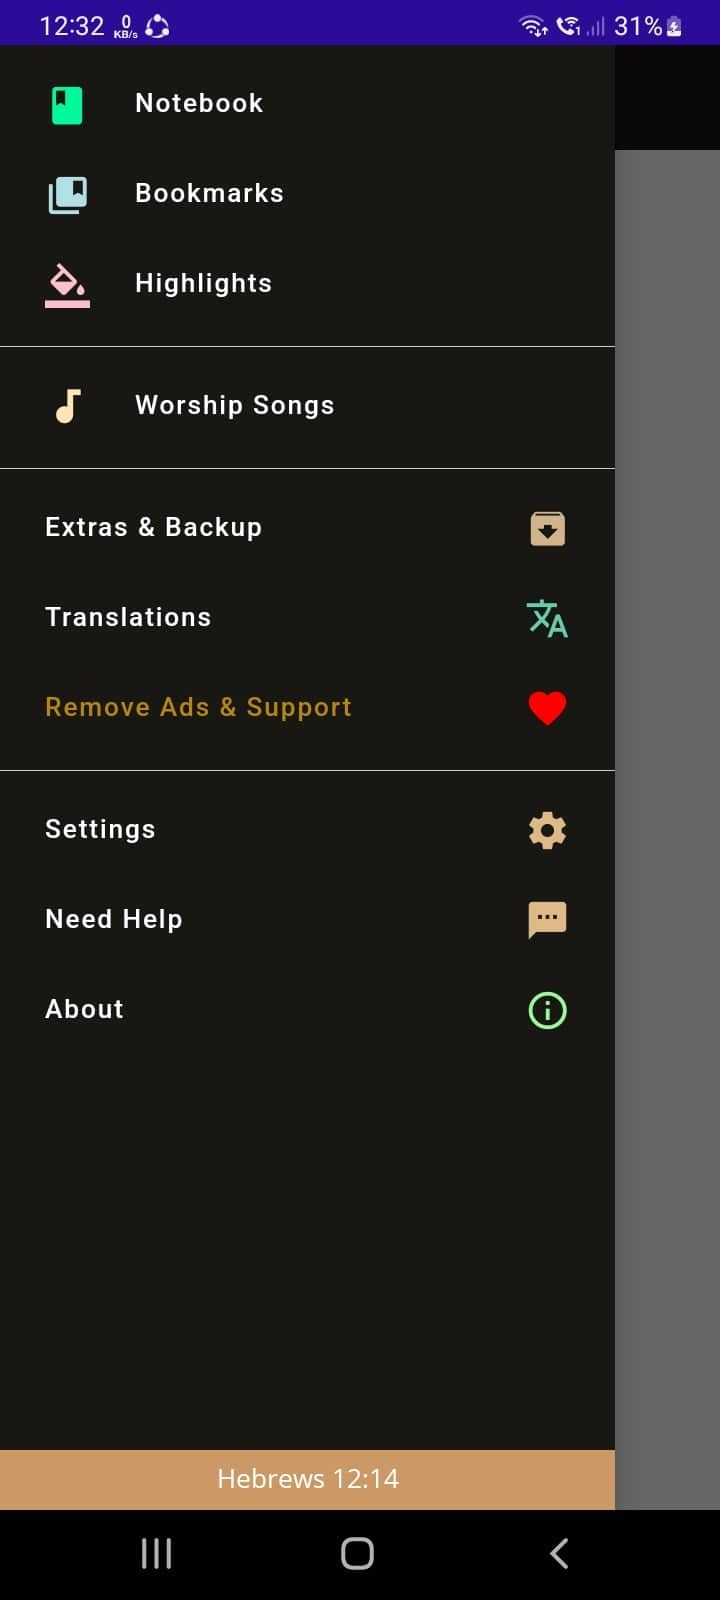
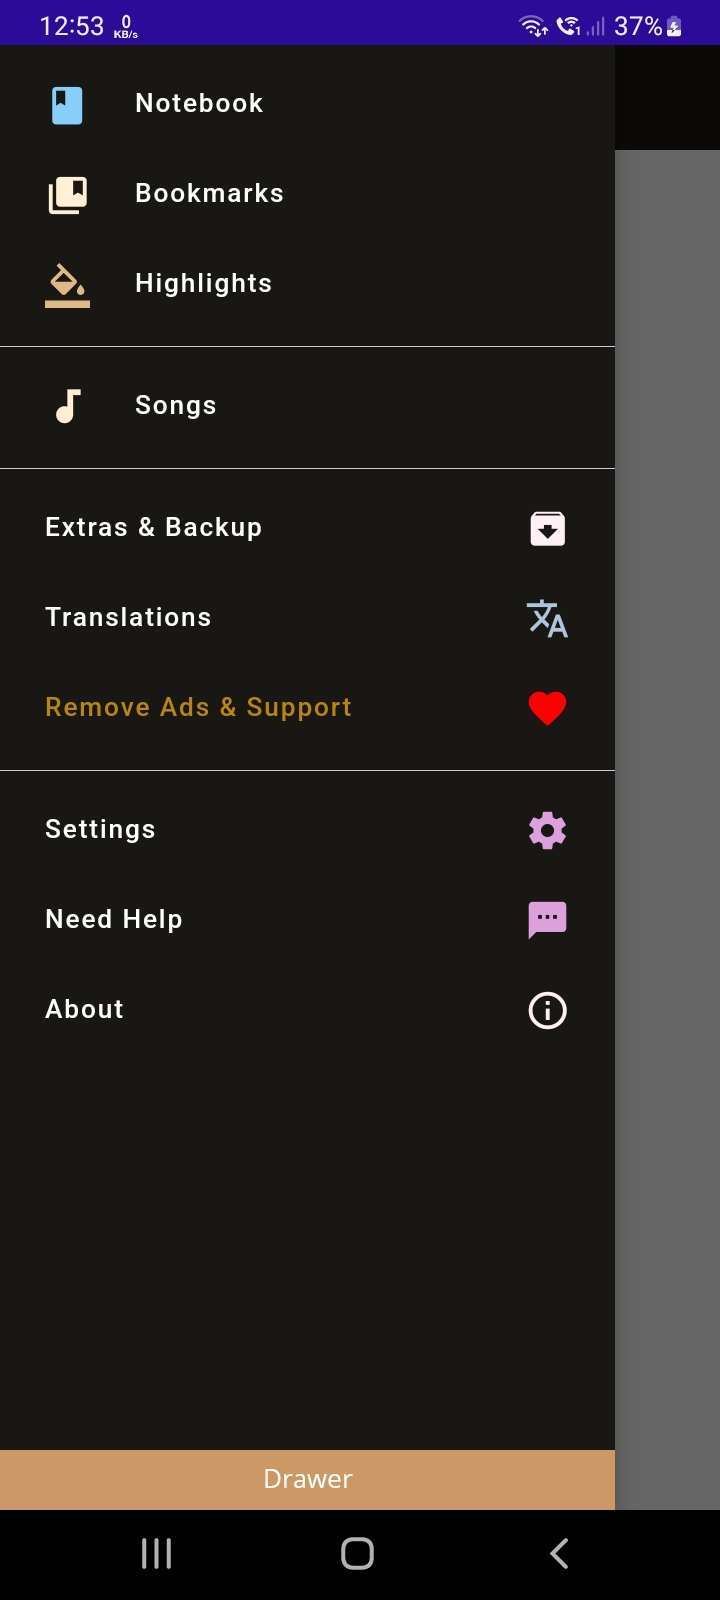
ok

diff --git a/Xamls/AppShell.xaml b/Xamls/AppShell.xaml
@@ -55,7 +55,7 @@
                 x:Name="footer_txt"
                 FontSize="Small"
                 HorizontalOptions="Center"
-                Text="Hebrews 12:14"
+                Text="Drawer"
                 TextColor="{StaticResource PrimaryTextColor}" />
 
         </Grid>
